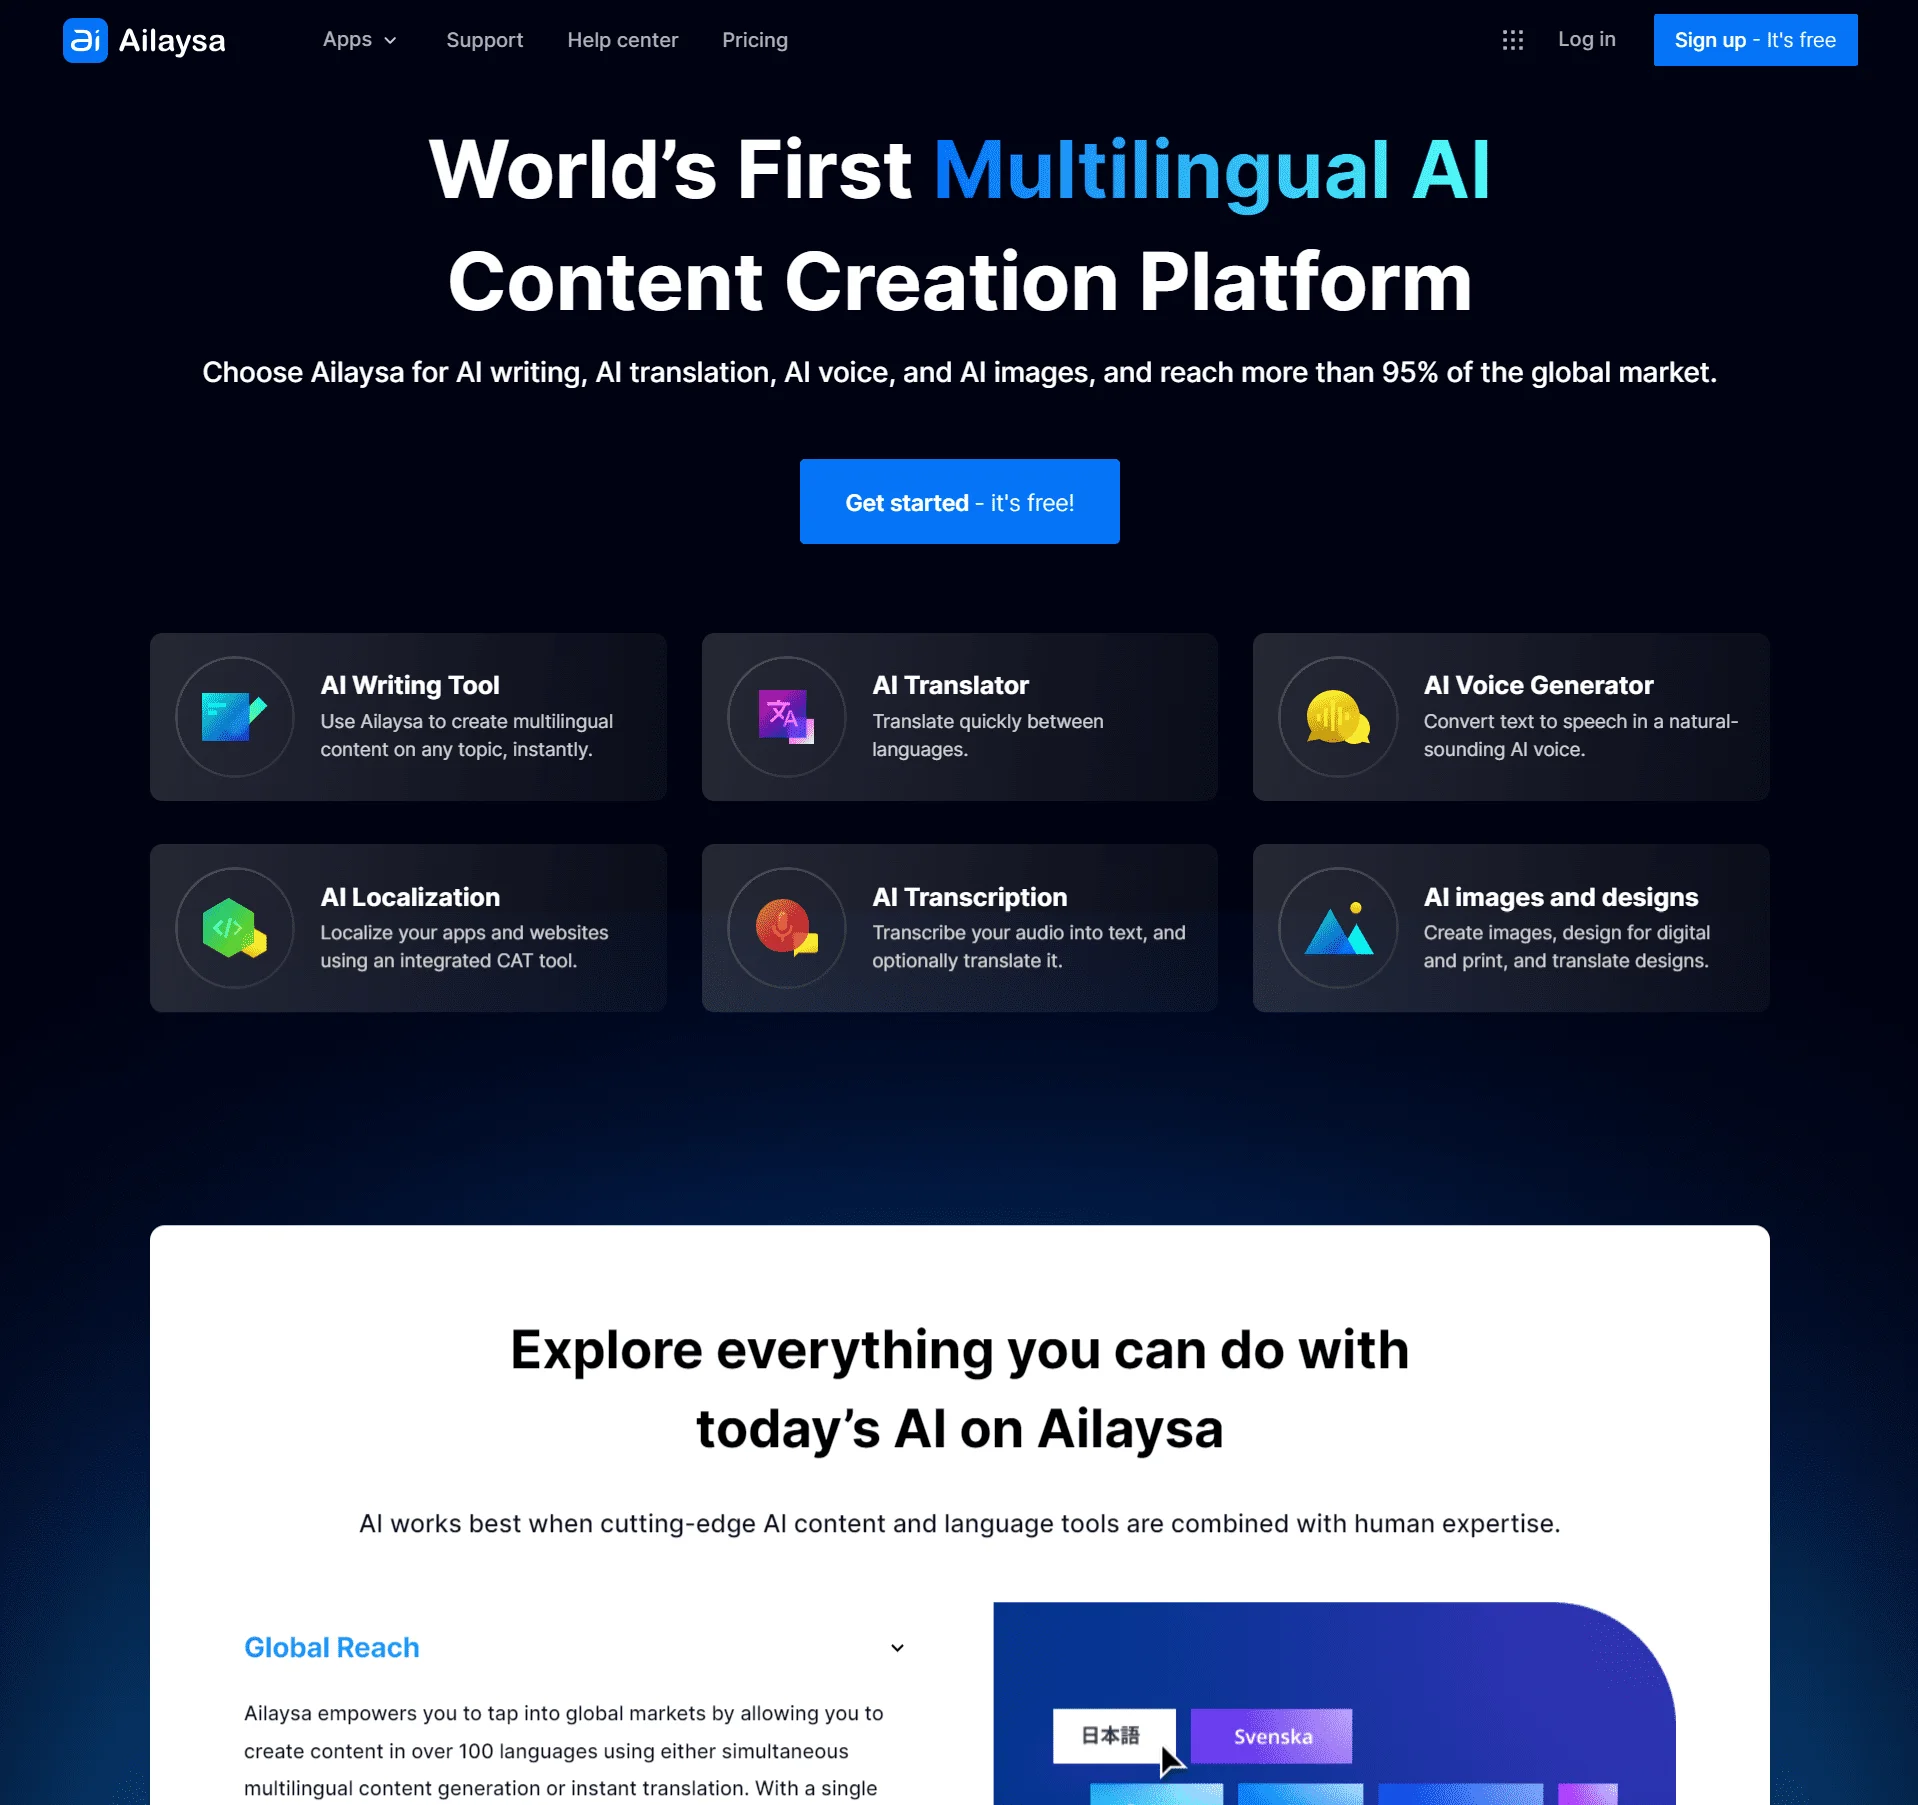
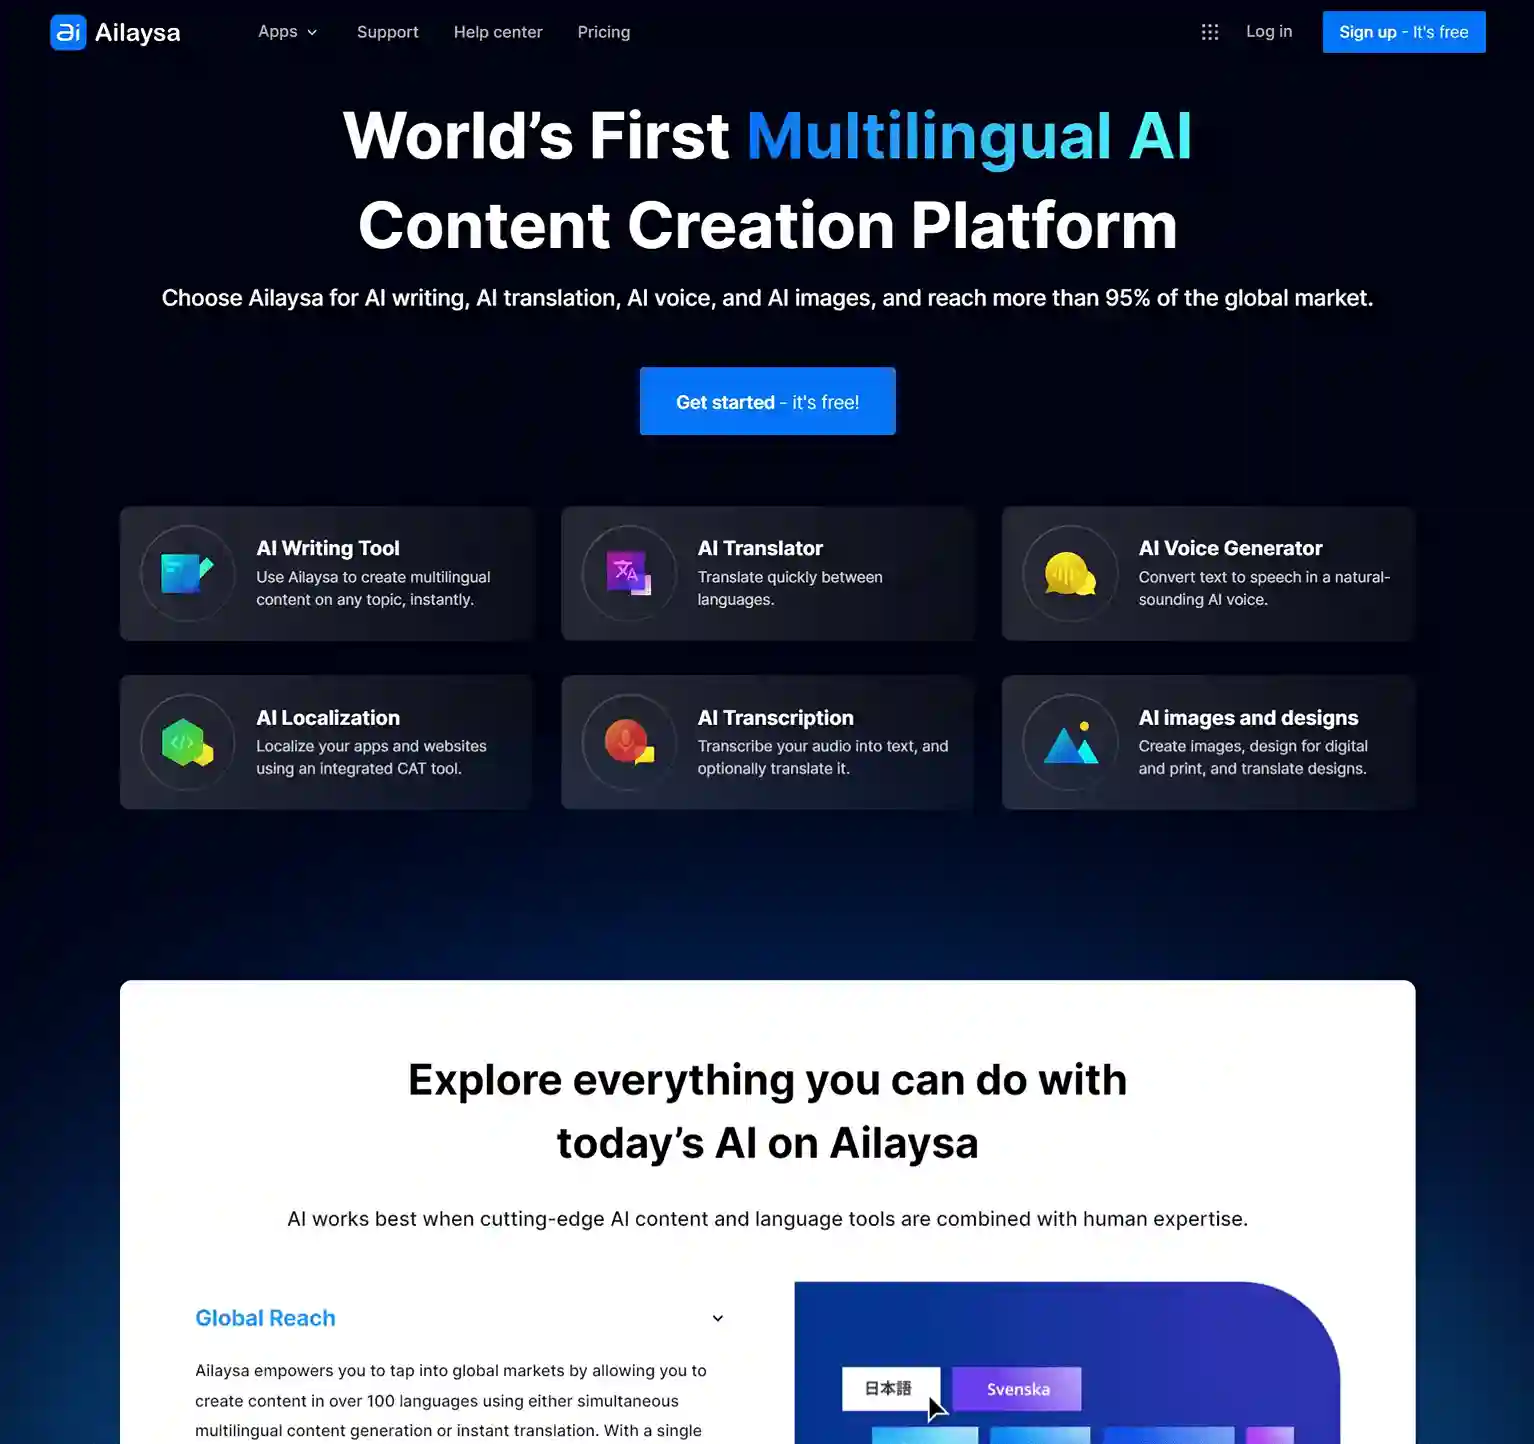
home page compressed images added, call phone added in contact section

diff --git a/src/data/projectsImgData.js b/src/data/projectsImgData.js
@@ -1,7 +1,7 @@
 // cover png imgs
-import Ailaysa from '../assets/images/projects/ailaysa/cover/ailaysa1.png'
-import Langsmart from '../assets/images/projects/langsmart/cover/langsmart1.png'
-import MonksOfMethod from '../assets/images/projects/monksofmethod/cover/monks1.png'
+import Ailaysa from '../assets/images/projects/ailaysa/cover/ailaysa1.jpg'
+import Langsmart from '../assets/images/projects/langsmart/cover/langsmart1.jpg'
+import MonksOfMethod from '../assets/images/projects/monksofmethod/cover/monks1.jpg'
 import InteriorHarmony from '../assets/images/projects/interior-harmony/cover/interior-harmony.png'
 import CityEcommerce from '../assets/images/projects/city-commerce/cover/city1.png'
 import ParkingSystem from '../assets/images/projects/parking-system/cover/parking-system.png'

diff --git a/src/data/socialLinkData.js b/src/data/socialLinkData.js
@@ -2,6 +2,7 @@ import LinkedInIcon from '../assets/images/icons/linkedin.svg'
 import GithubIcon from '../assets/images/icons/github.svg'
 import MailIcon from '../assets/images/icons/mail.svg'
 import WhatsappIcon from '../assets/images/icons/whatsapp.svg'
+import PhoneIcon from '../assets/images/icons/phone.svg'
 
 export const socialLinksList = [
     {
@@ -26,6 +27,12 @@ export const socialLinksList = [
         id: 4,
         name: 'whatsapp',
         icon: WhatsappIcon,
-        link: "https://api.whatsapp.com/send?phone=7358557812&text=Hi"
+        link: "https://api.whatsapp.com/send?phone=7358557812&text=Hi Sarvesh"
+    },
+    {
+        id: 5,
+        name: 'phone',
+        icon: PhoneIcon,
+        link: "tel:+918319372063"
     },
 ]

diff --git a/src/components/hero/Hero.jsx b/src/components/hero/Hero.jsx
@@ -1,8 +1,8 @@
 import { ActionButton } from '../utils/button/ActionButton'
 import './hero.css'
 // import MyPic from '../../assets/images/hero/mypic.png'
-import MyPic from '../../assets/images/hero/pic1.JPG'
-import MyPicWebp from '../../assets/images/hero/pic1.webp'
+import MyPic from '../../assets/images/hero/pic1-compress.jpg'
+import MyPicWebp from '../../assets/images/hero/pic1-compress.webp'
 import { socialLinksList } from '../../data/socialLinkData'
 import NorthEastIcon from '@mui/icons-material/NorthEast';
 import { useNavigate } from 'react-router-dom'
